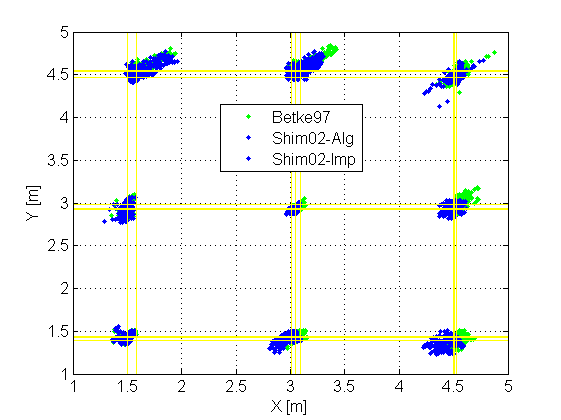
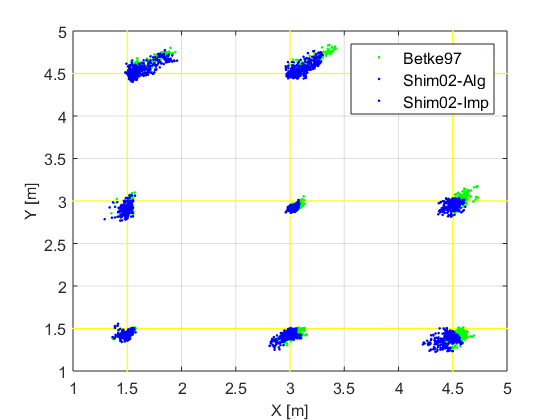
Add 'reprojection_error' and use it with Roh dataset

diff --git a/run_eval_roh.m b/run_eval_roh.m
@@ -19,30 +19,30 @@ config.dataFile = ... % A list of data files
 };
 config.pose = ... % A list of ground truth
 [                            ...
-    1.50, 1.44, 0, 0, 0, tran_deg2rad(90.7); ...
-    1.50, 2.92, 0, 0, 0, tran_deg2rad(90.9); ...
-    1.58, 4.54, 0, 0, 0, tran_deg2rad(85.5); ...
-    3.01, 1.43, 0, 0, 0, tran_deg2rad(87.1); ...
-    3.05, 2.93, 0, 0, 0, tran_deg2rad(88.9); ...
-    3.09, 4.55, 0, 0, 0, tran_deg2rad(91.3); ...
-    4.50, 1.39, 0, 0, 0, tran_deg2rad(88.5); ...
-    4.53, 2.98, 0, 0, 0, tran_deg2rad(89.9); ...
-    4.51, 4.47, 0, 0, 0, tran_deg2rad(90.5); ...
+    1.50, 1.50, 0, 0, 0, tran_deg2rad(90.0); ...
+    1.50, 3.00, 0, 0, 0, tran_deg2rad(90.0); ...
+    1.50, 4.50, 0, 0, 0, tran_deg2rad(90.0); ...
+    3.00, 1.50, 0, 0, 0, tran_deg2rad(90.0); ...
+    3.00, 3.00, 0, 0, 0, tran_deg2rad(90.0); ...
+    3.00, 4.50, 0, 0, 0, tran_deg2rad(90.0); ...
+    4.50, 1.50, 0, 0, 0, tran_deg2rad(90.0); ...
+    4.50, 3.00, 0, 0, 0, tran_deg2rad(90.0); ...
+    4.50, 4.50, 0, 0, 0, tran_deg2rad(90.0); ...
 ];
 config.algorithm = ... % Description of localization algorithms
 {                                                                                                           ...
-  % #, Dim, Name,           Local. Function,         Observation Function,    Min. N, Valid,    Line Sytle; ...
+  % #, Dim, Name,           Local. Function,            Observation Function, Min. N, Valid,    Line Sytle; ...
     1,  2,  'Betke97',      @localize2d_betke97,        @observe_bearing,          3, [1 1 0 0 0 1], 'gd-'; ...
     2,  2,  'Shim02-Alg',   @localize2d_shimshoni02_algebraic, @observe_bearing,   3, [1 1 0 0 0 1], 'b--'; ...
     3,  2,  'Shim02-Imp',   @localize2d_shimshoni02_improved,  @observe_bearing,   3, [1 1 0 0 0 1], 'b+-'; ...
 };
 config.matFile = 'run_eval_roh.mat';
 
-criteria.name = {'Position Error [m]', 'Orientation Error [deg]', ...
-                 'Computing Time [msec]', 'Number of Failures'}; % Name of evaluation criteria
-criteria.repr = {@median, @median, @median, @sum}; % Functions for calculating representive values
-                                                   %  (e.g. mean, median, std, and sum)
-criteria.format = {'%.6f', '%.3f', '%.6f', '%d'};  % Format for printing text
+criteria.name = {'Position Error [m]', 'Orientation Error [deg]', 'Reprojection Error [deg]', ...
+                 'Computing Time [msec]', 'Number of Failures'};    % Name of evaluation criteria
+criteria.repr = {@median, @median, @median, @median, @sum};         % Functions for calculating representive values
+                                                                    %  (e.g. mean, median, std, and sum)
+criteria.format = {'%.6f', '%.3f', '%.3f', '%.6f', '%d'};           % Format for printing text
 
 % Perform experiments %%%%%%%%%%%%%%%%%%%%%%%%%%%%%%%%%%%%%%%%%%%%%%%%%%%%%%%%%
 config.algoDims = 2;
@@ -75,8 +75,10 @@ for d = 1:size(config.dataFile,1)
             elapse = toc * 1000; % [sec] to [msec]
             set.perf(1,1,m) = error_position(truth(1:3), pose(1:3));
             set.perf(1,2,m) = tran_rad2deg(error_orientation(truth(4:6), pose(4:6))); % [rad] to [deg]
-            set.perf(1,3,m) = elapse;
-            set.perf(1,4,m) = ~isequal(valid, config.algorithm{m,config.algoVald});
+            projection = observe_bearing(map, pose);
+            set.perf(1,3,m) = tran_rad2deg(norm(trim_rad(obsData - projection)));     % [rad] to [deg]
+            set.perf(1,4,m) = elapse;
+            set.perf(1,5,m) = ~isequal(valid, config.algorithm{m,config.algoVald});
             set.pose(1,:,m) = pose;
         end
         record.perf{1,1} = [record.perf{1,1}; set.perf];

diff --git a/run_eval_random.m b/run_eval_random.m
@@ -25,8 +25,9 @@ config.algorithm = ...                      % Description of localization algori
     5,  2,  'Shim02-Imp',   @localize2d_shimshoni02_improved,  @observe_bearing,   3, [1 1 0 0 0 1], 'b+-'; ...
     6,  2,  'Se05',         @localize2d_se05,           @observe_displacement,     2, [1 1 0 0 0 1], 'rs-'; ...
     7,  2,  'Sayed05-AOA',  @localize2d_sayed05_aoa,    @observe_displacement,     2, [1 1 0 0 0 1], 'ko-'; ...
-    8,  3,  'Sayed05-TOA3D',@localize3d_sayed05_toa,    @observe_distance,         4, [1 1 1 0 0 0], 'kx:'; ...
-    9,  3,  'Thomas05',     @localize3d_thomas05,       @observe_distance,         3, [1 1 1 0 0 0], 'm+-'; ...
+    8,  2,  'Pose',         @localize2d_pose,           @observe_pose,             1, [1 1 0 0 0 1], 'r--'; ...
+    9,  3,  'Sayed05-TOA3D',@localize3d_sayed05_toa,    @observe_distance,         4, [1 1 1 0 0 0], 'kx:'; ...
+   10,  3,  'Thomas05',     @localize3d_thomas05,       @observe_distance,         3, [1 1 1 0 0 0], 'm+-'; ...
 };
 config.verbose   = true;                    % Show progress of experiments (true or false)
 config.warning   = 'off';                   % Show warning during experiments ('on' or 'off')

diff --git a/run_draw_distribution.m b/run_draw_distribution.m
@@ -37,9 +37,9 @@ hold on;
 hold off;
 
 % Draw distribution of position/orientation error (CDF)
-xtext = { 'distance [m]', 'angle [deg]' };
-ytext = { 'P(position error < distance)', 'P(orientation error < angle)' };
-for cr = 1:2
+xtext = { 'distance [m]', 'angle [deg]', 'angle [deg]' };
+ytext = { 'P(position error < distance)', 'P(orientation error < angle)', 'P(reprojection error < angle)' };
+for cr = 1:(size(criteria.name, 2) - 2)
     med = median(median(record.perf{target.ex,target.v}(:,cr,config.algoSelM)));
     if med == 0, med = 1; end
     bins = 0:(histogram.scale*med/histogram.bin):histogram.scale*med;

diff --git a/error_reprojection.m b/error_reprojection.m
@@ -1,0 +1,16 @@
+function [d] = error_reprojection(p, q)
+%ERROR_POSITION  Calculate Euclidean distance between two vectors.
+%
+%   D = ERROR_POSITION(P, Q)
+%       (matrix) P: A vector (1xN matrix, Nx1 matrix)
+%       (matrix) Q: A vector (1xN matrix, Nx1 matrix)
+%       (scalar) D: Euclidean distance between P and Q
+%
+%   Note: Two vectors, P and Q, should be same size.
+%
+%   Example:
+%       p = [82; 3; 29];
+%       q = [84; 10; 18];
+%       d = error_position(p, q)
+
+d = norm(p - q);

diff --git a/observe_distance_relative.m b/observe_distance_relative.m
@@ -24,7 +24,7 @@ function [obsData, obsMap] = observe_distance_relative(map, pose, visibleRate)
 %   Example:
 %       map  = [ 0, 0, 5, 0, 0, 0; ...
 %                5, 0, 5, 0, 0, 0; ...
-%                5, 5, 5, 0, 0, 0 ];
+%                5, 5, 5, 0, 0, 0; ...
 %                0, 5, 5, 0, 0, 0 ];
 %       pose = [ 3, 2, 9, 0, 0, pi / 2 ];
 %       [obsData, obsMap] = observe_distance_relative(map, pose)

diff --git a/observe_displacement.m b/observe_displacement.m
@@ -27,7 +27,7 @@ function [obsData, obsMap] = observe_displacement(map, pose, visibleRate)
 %   Example:
 %       map  = [ 0, 0, 5, 0, 0, 0; ...
 %                5, 0, 5, 0, 0, 0; ...
-%                5, 5, 5, 0, 0, 0 ];
+%                5, 5, 5, 0, 0, 0; ...
 %                0, 5, 5, 0, 0, 0 ];
 %       pose = [ 3, 2, 9, 0, 0, pi / 2 ];
 %       [obsData, obsMap] = observe_displacement(map, pose)

diff --git a/observe_distance.m b/observe_distance.m
@@ -24,7 +24,7 @@ function [obsData, obsMap] = observe_distance(map, pose, visibleRate)
 %   Example:
 %       map  = [ 0, 0, 5, 0, 0, 0; ...
 %                5, 0, 5, 0, 0, 0; ...
-%                5, 5, 5, 0, 0, 0 ];
+%                5, 5, 5, 0, 0, 0; ...
 %                0, 5, 5, 0, 0, 0 ];
 %       pose = [ 3, 2, 9, 0, 0, pi / 2 ];
 %       [obsData, obsMap] = observe_distance(map, pose)

diff --git a/observe_pose.m b/observe_pose.m
@@ -27,7 +27,7 @@ function [obsData, obsMap] = observe_pose(map, pose, visibleRate)
 %   Example:
 %       map  = [ 0, 0, 5, 0, 0, 0; ...
 %                5, 0, 5, 0, 0, 0; ...
-%                5, 5, 5, 0, 0, 0 ];
+%                5, 5, 5, 0, 0, 0; ...
 %                0, 5, 5, 0, 0, 0 ];
 %       pose = [ 3, 2, 9, 0, 0, pi / 2 ];
 %       [obsData, obsMap] = observe_displacement(map, pose)

diff --git a/observe_bearing.m b/observe_bearing.m
@@ -32,7 +32,7 @@ function [obsData, obsMap] = observe_bearing(map, pose, visibleRate)
 %   Examples:
 %       map  = [ 0, 0, 5, 0, 0, 0; ...
 %                5, 0, 5, 0, 0, 0; ...
-%                5, 5, 5, 0, 0, 0 ];
+%                5, 5, 5, 0, 0, 0; ...
 %                0, 5, 5, 0, 0, 0 ];
 %       pose = [ 3, 2, 9, 0, 0, pi / 2 ];
 %       [obsData, obsMap] = observe_bearing(map, pose)

diff --git a/README.md b/README.md
@@ -15,7 +15,7 @@ Use `help` command to know each function in detail, for example, `help observe_d
 * __3D Localization Algorithms__: localize3d\_\*.m
 * __Observation Functions__: [observe_distance.m][], [observe_distance_relative.m][], [observe_bearing.m][], [observe_displacement.m][], [observe_pose.m][]
 * __Random Noise Generators__: [apply_noise_gauss.m][]
-* __Accuracy Criteria__: [error_position.m][], [error_orientation.m][]
+* __Accuracy Criteria__: [error_position.m][], [error_orientation.m][], [error_reprojection.m][]
 * __Utility Functions__
   * Unit-test: [test_is_true.m][], [test_is_near.m][]
   * Angular Conversions: [tran_rad2deg.m][], [tran_deg2rad.m][], [tran_rad2rot.m][], [tran_rot2rad.m][], [trim_rad.m][]
@@ -70,6 +70,7 @@ The authors thank to the following contributors and projects.
 [apply_noise_gauss.m]: https://github.com/SunglokChoi/Triangulation-Toolbox/blob/master/apply_noise_gauss.m
 [error_position.m]: https://github.com/SunglokChoi/Triangulation-Toolbox/blob/master/error_position.m
 [error_orientation.m]: https://github.com/SunglokChoi/Triangulation-Toolbox/blob/master/error_orientation.m
+[error_reprojection.m]: https://github.com/SunglokChoi/Triangulation-Toolbox/blob/master/error_reprojection.m
 [test_is_true.m]: https://github.com/SunglokChoi/Triangulation-Toolbox/blob/master/test_is_true.m
 [test_is_near.m]: https://github.com/SunglokChoi/Triangulation-Toolbox/blob/master/test_is_near.m
 [tran_rad2deg.m]: https://github.com/SunglokChoi/Triangulation-Toolbox/blob/master/tran_rad2deg.m
